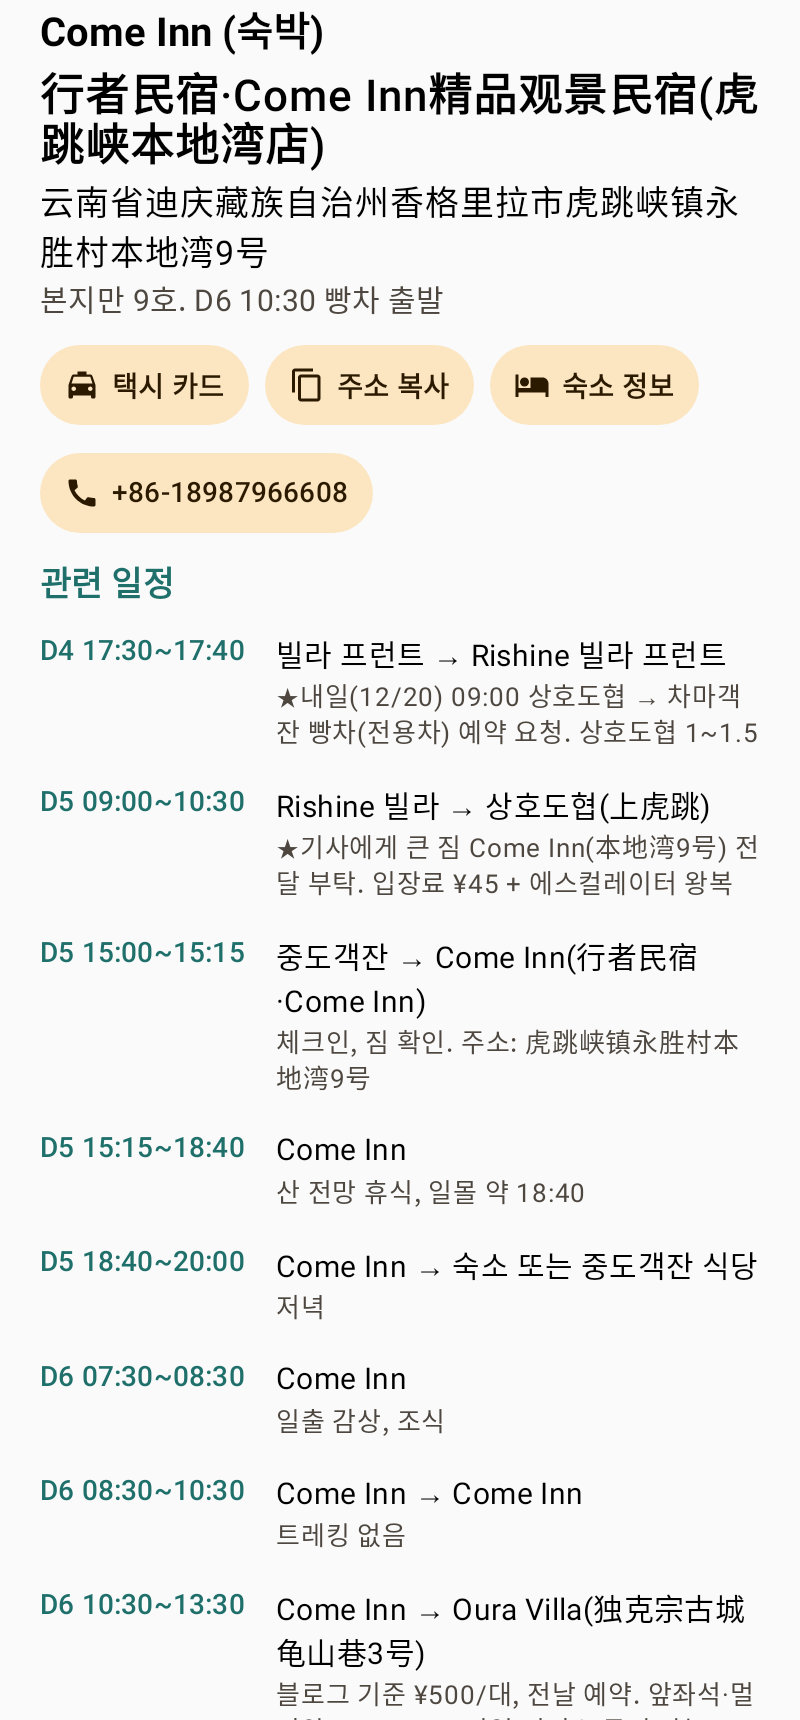
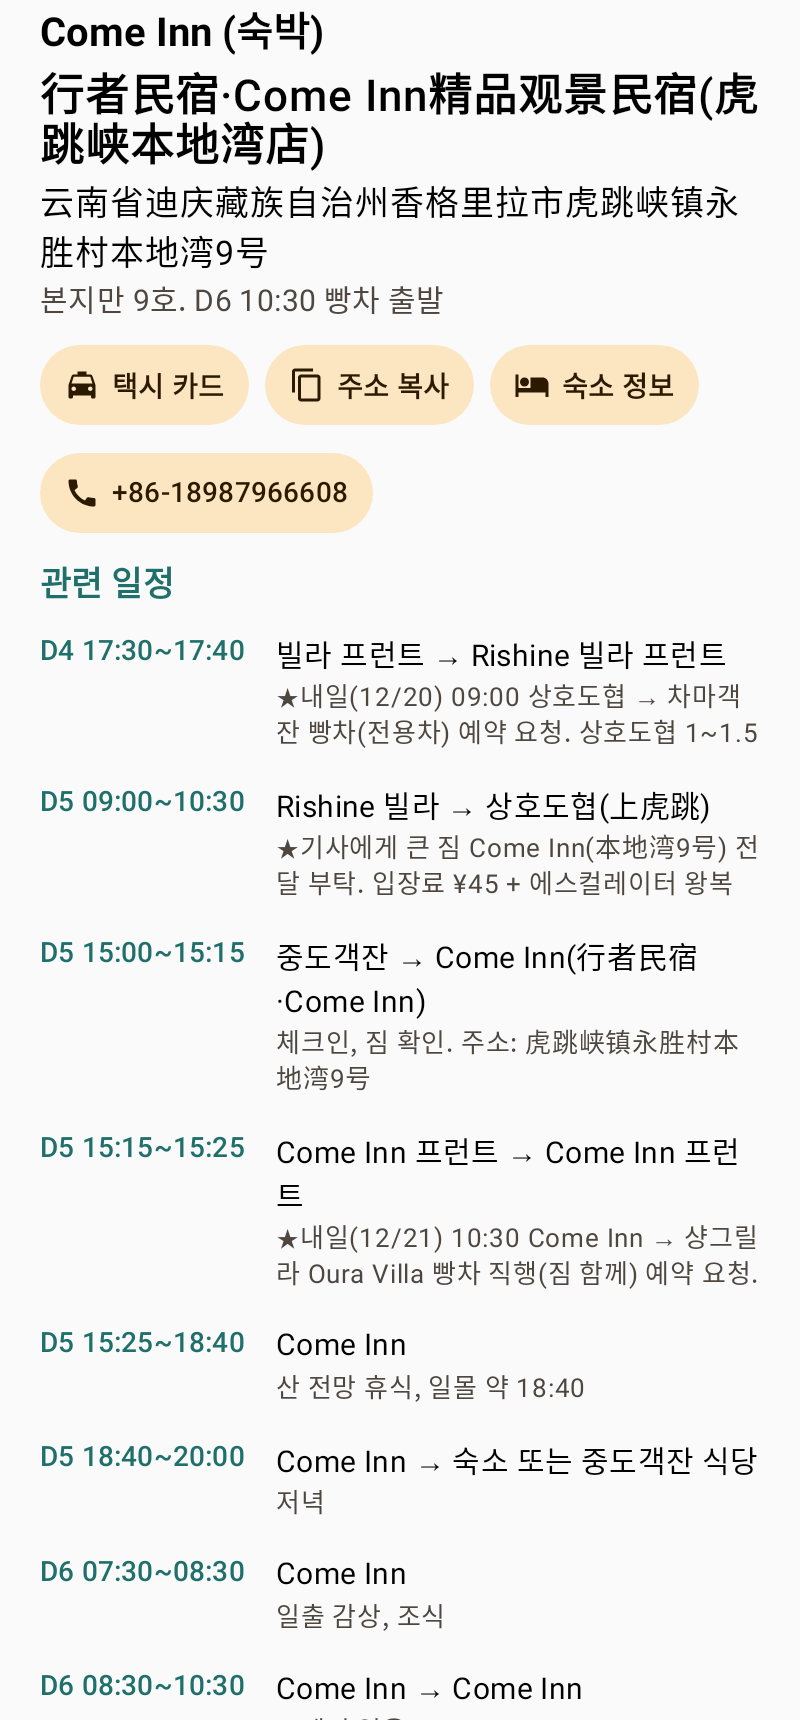
D5 15:15 Come Inn 프런트 샹그릴라 빵차 예약 요청 행·알림 추가 (1.2.2)
Claude-Session: https://claude.ai/code/session_01RqJ3Se7kzhbz5fxXJgdegj

diff --git a/android/app/src/test/java/kr/koasis/travelyunnan/DomainTest.kt b/android/app/src/test/java/kr/koasis/travelyunnan/DomainTest.kt
@@ -120,7 +120,7 @@ class DomainTest {
         val csv = kr.koasis.travelyunnan.ui.expense.expensesCsv(list, 200.0)
         assertTrue(csv.lines().size == 2 && csv.contains("20000") && csv.contains("\"a,b\""))
         assertEquals("식비", kr.koasis.travelyunnan.ui.expense.budgetKey("식비(맛집·식사 계획)"))
-        assertEquals(11, data.notifications.size)
+        assertEquals(12, data.notifications.size)
         assertTrue(data.notifications.all { kr.koasis.travelyunnan.notify.TripNotifier.epochMillis(it.at) > 0 })
     }
 

diff --git a/android/app/src/main/java/kr/koasis/travelyunnan/BuildConfigInfo.kt b/android/app/src/main/java/kr/koasis/travelyunnan/BuildConfigInfo.kt
@@ -1,5 +1,5 @@
 package kr.koasis.travelyunnan
 
 object BuildConfigInfo {
-    const val VERSION = "1.2.1"
+    const val VERSION = "1.2.2"
 }

diff --git a/tools/validate.py b/tools/validate.py
@@ -14,7 +14,7 @@ EXPECT_MIN = {
     "days.json": 8, "schedule.json": 60, "lodgings.json": 6, "meals.json": 25, "foods.json": 30,
     "phrases.json": 57, "words.json": 52, "foodNames.json": 39, "packing.json": 40, "notes.json": 15,
     "transport.json": 10, "budget.json": 5, "weather.json": 6, "maps.json": 7, "places.json": 10,
-    "place_links.json": 20, "notifications.json": 11, "lodging_todos.json": 10, "map_hotspots.json": 50,
+    "place_links.json": 20, "notifications.json": 12, "lodging_todos.json": 10, "map_hotspots.json": 50,
 }
 
 

diff --git a/docs/작업절차서.md b/docs/작업절차서.md
@@ -624,3 +624,4 @@ python3 tools/gen_audio.py --engine edge --voice zh-CN-XiaoxiaoNeural
 
 - 회화 차량 예약·빵차 범주에 "请给我您的微信号。(위챗 연락처(아이디)를 주세요)"를 "기사님 전화번호를 주세요" 바로 아래에 추가하고 음성을 생성했다(총 216개). `phrases_extra.json` 의 `after` 필드로 화면 순서를 지정한다.
 - D4 17:30~17:40 "빌라 프런트에 내일 09:00 상호도협→차마객잔 빵차 예약 요청" 행을 추가하고, 위챗 장문(매니저에게 보여주기)을 이 행으로 옮겼다. 같은 시각 알림 n-11 과 숙소 할 일 문구도 갱신했다.
+- D5 15:15~15:25 "Come Inn 프런트에 내일 10:30 샹그릴라 빵차 예약 요청" 행을 추가하고, D6 10:30 행에 있던 위챗 장문을 이 행으로 옮겼다. 알림 n-12(12/20 15:15)와 숙소 할 일 문구도 갱신했다. (1.2.2)
